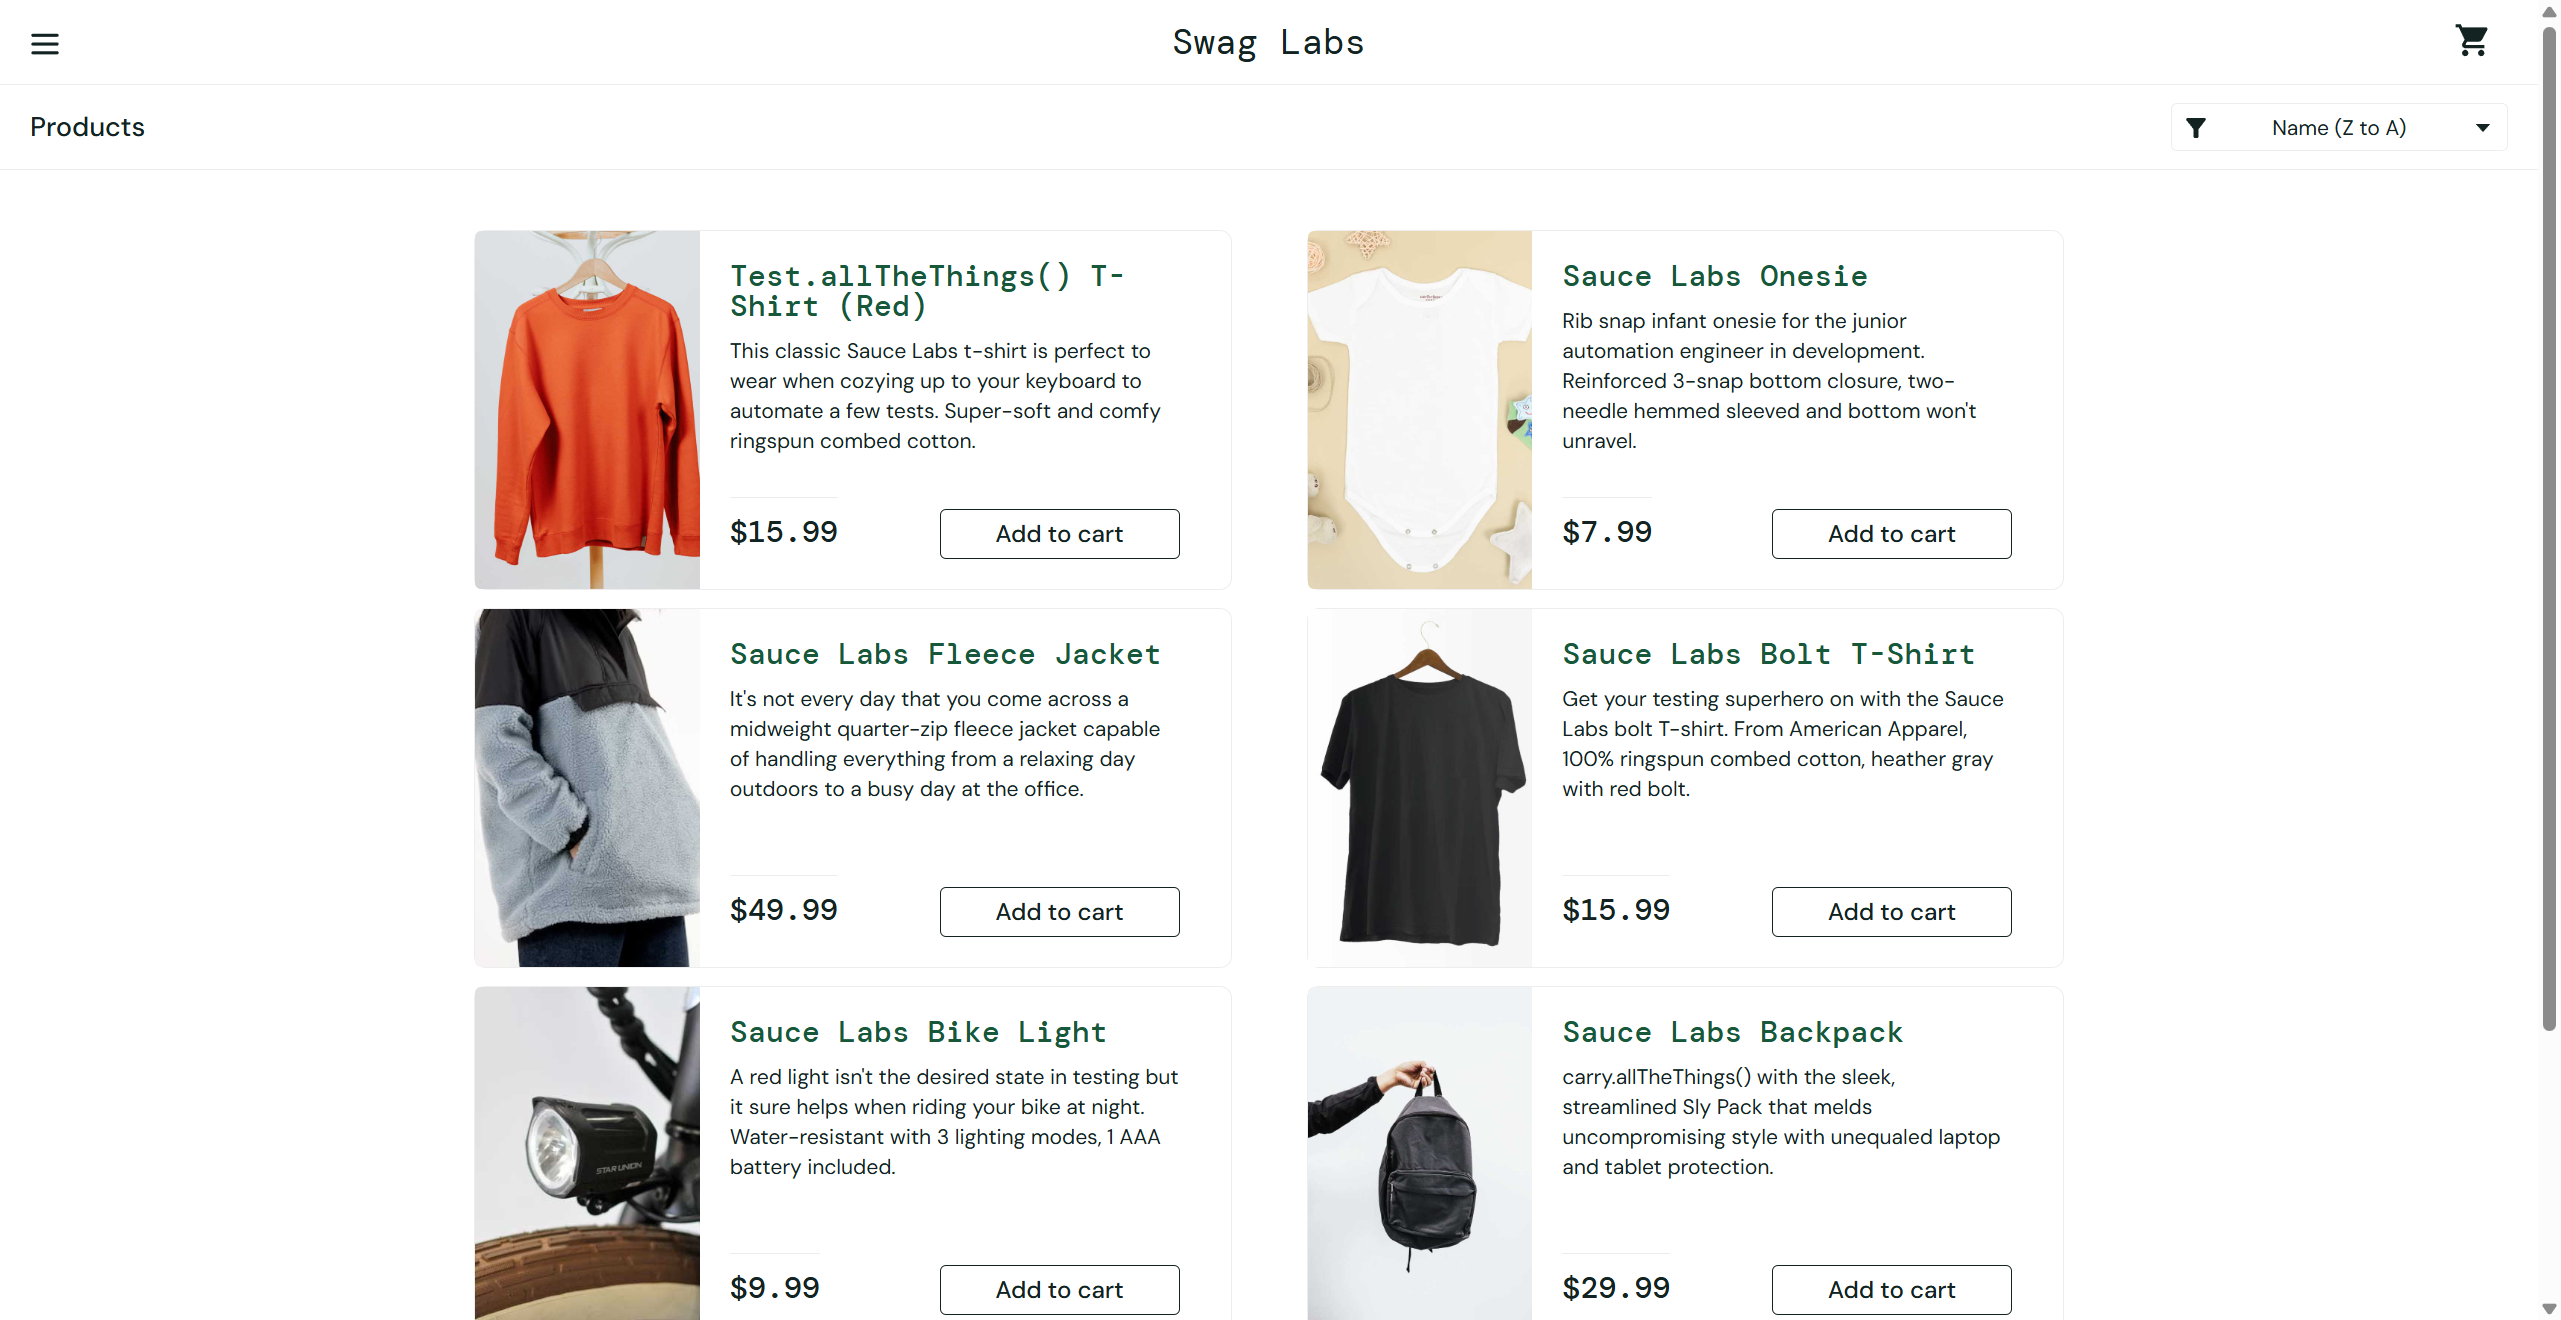
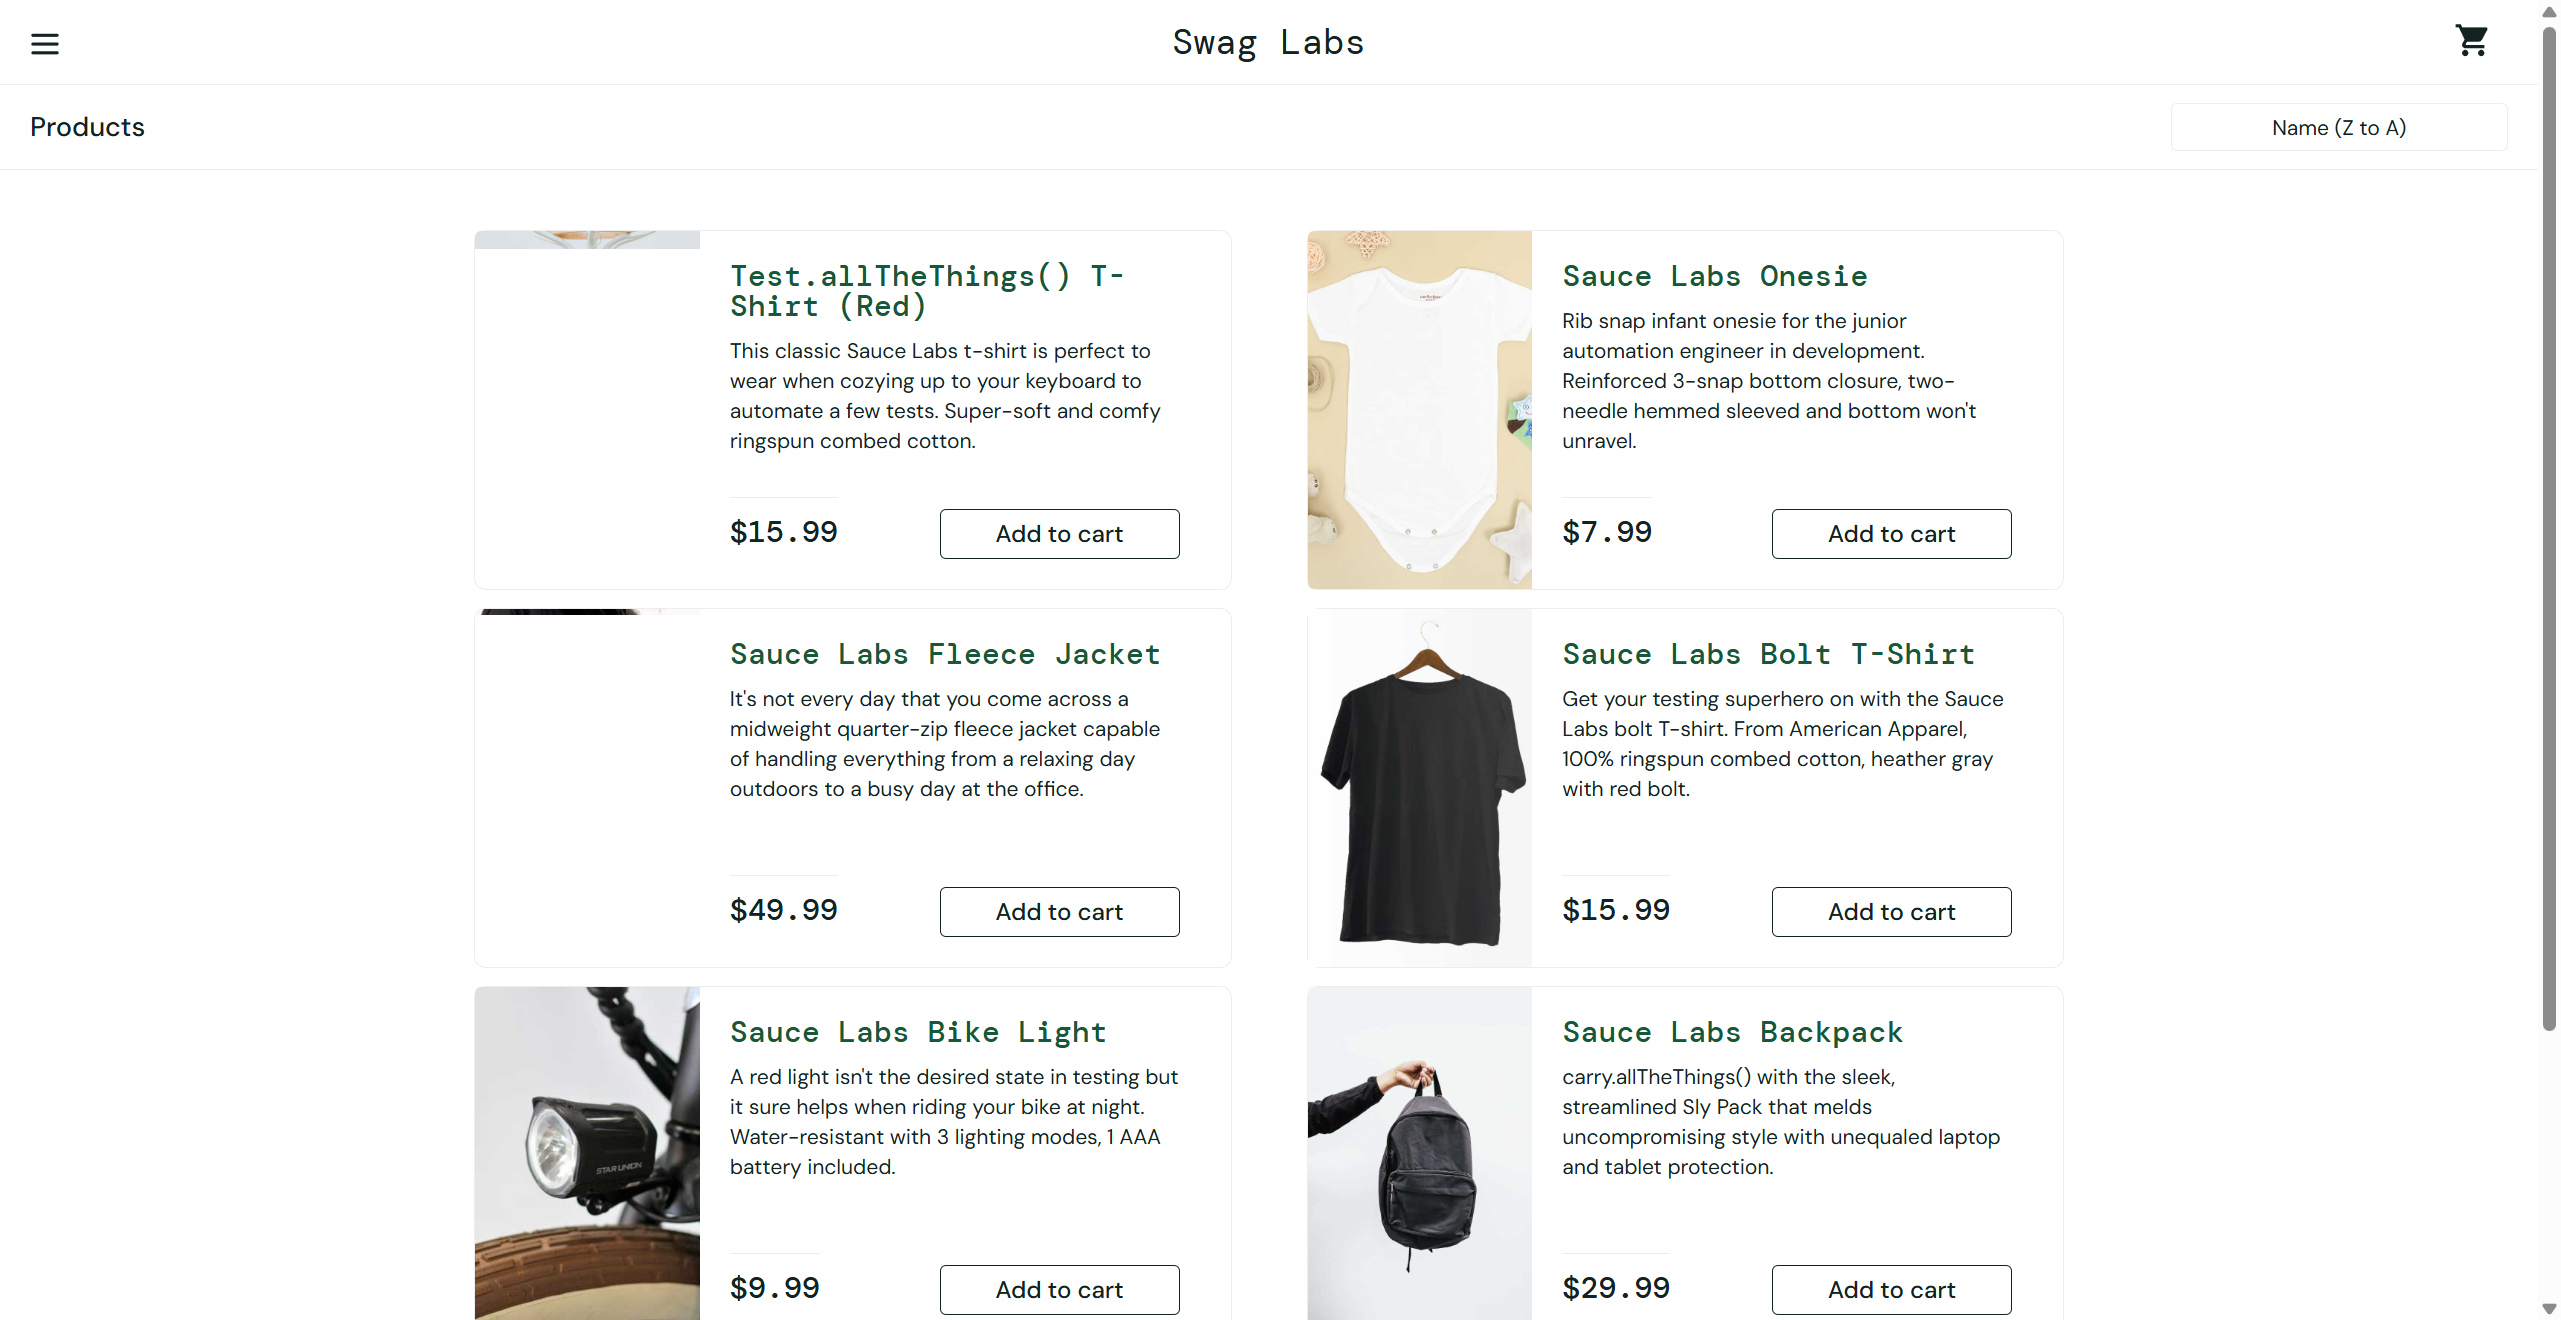
Добавлены mock тесты и доработки диплома

Changed region(s): [[0.1874, 0.1864, 0.2811, 0.7455]]

diff --git a/tests/test_payment_mock.py b/tests/test_payment_mock.py
@@ -1,0 +1,22 @@
+from unittest.mock import patch
+from pages import checkout_page
+
+
+def fake_success_payment():
+    return True
+
+
+def fake_failed_payment():
+    return False
+
+
+@patch("pages.checkout_page.process_payment", side_effect=fake_success_payment)
+def test_payment_success(mock_payment):
+    result = checkout_page.process_payment()
+    assert result is True
+
+
+@patch("pages.checkout_page.process_payment", side_effect=fake_failed_payment)
+def test_payment_failed(mock_payment):
+    result = checkout_page.process_payment()
+    assert result is False

diff --git a/demo_failures/payment_failure_demo.py b/demo_failures/payment_failure_demo.py
@@ -1,0 +1,14 @@
+from unittest.mock import patch
+from pages import checkout_page
+
+
+def fake_failed_payment():
+    return False
+
+
+@patch("pages.checkout_page.process_payment", side_effect=fake_failed_payment)
+def test_payment_should_be_successful(mock_payment):
+    result = checkout_page.process_payment()
+
+    # намеренно неправильная проверка для демонстрации ошибки
+    assert result is True

diff --git a/pages/checkout_page.py b/pages/checkout_page.py
@@ -2,6 +2,10 @@ from selenium.webdriver.common.by import By
 from pages.base_page import BasePage
 
 
+def process_payment():
+    return True
+
+
 class CheckoutPage(BasePage):
     FIRST_NAME_INPUT = (By.ID, "first-name")
     LAST_NAME_INPUT = (By.ID, "last-name")

diff --git a/README.md b/README.md
@@ -1,0 +1,19 @@
+Проект автоматизированного тестирования веб-приложения
+
+Для запуска:
+1. Установить зависимости:
+   pip install -r requirements.txt
+
+2. Запустить тесты:
+   pytest -v
+
+Основные сценарии:
+- Авторизация
+- Добавление товара в корзину
+- Оформление заказа
+- Сортировка
+- Выход из системы
+- Тесты оплаты (mock)
+
+Дополнительно:
+- Пример неуспешного теста (demo_failures)